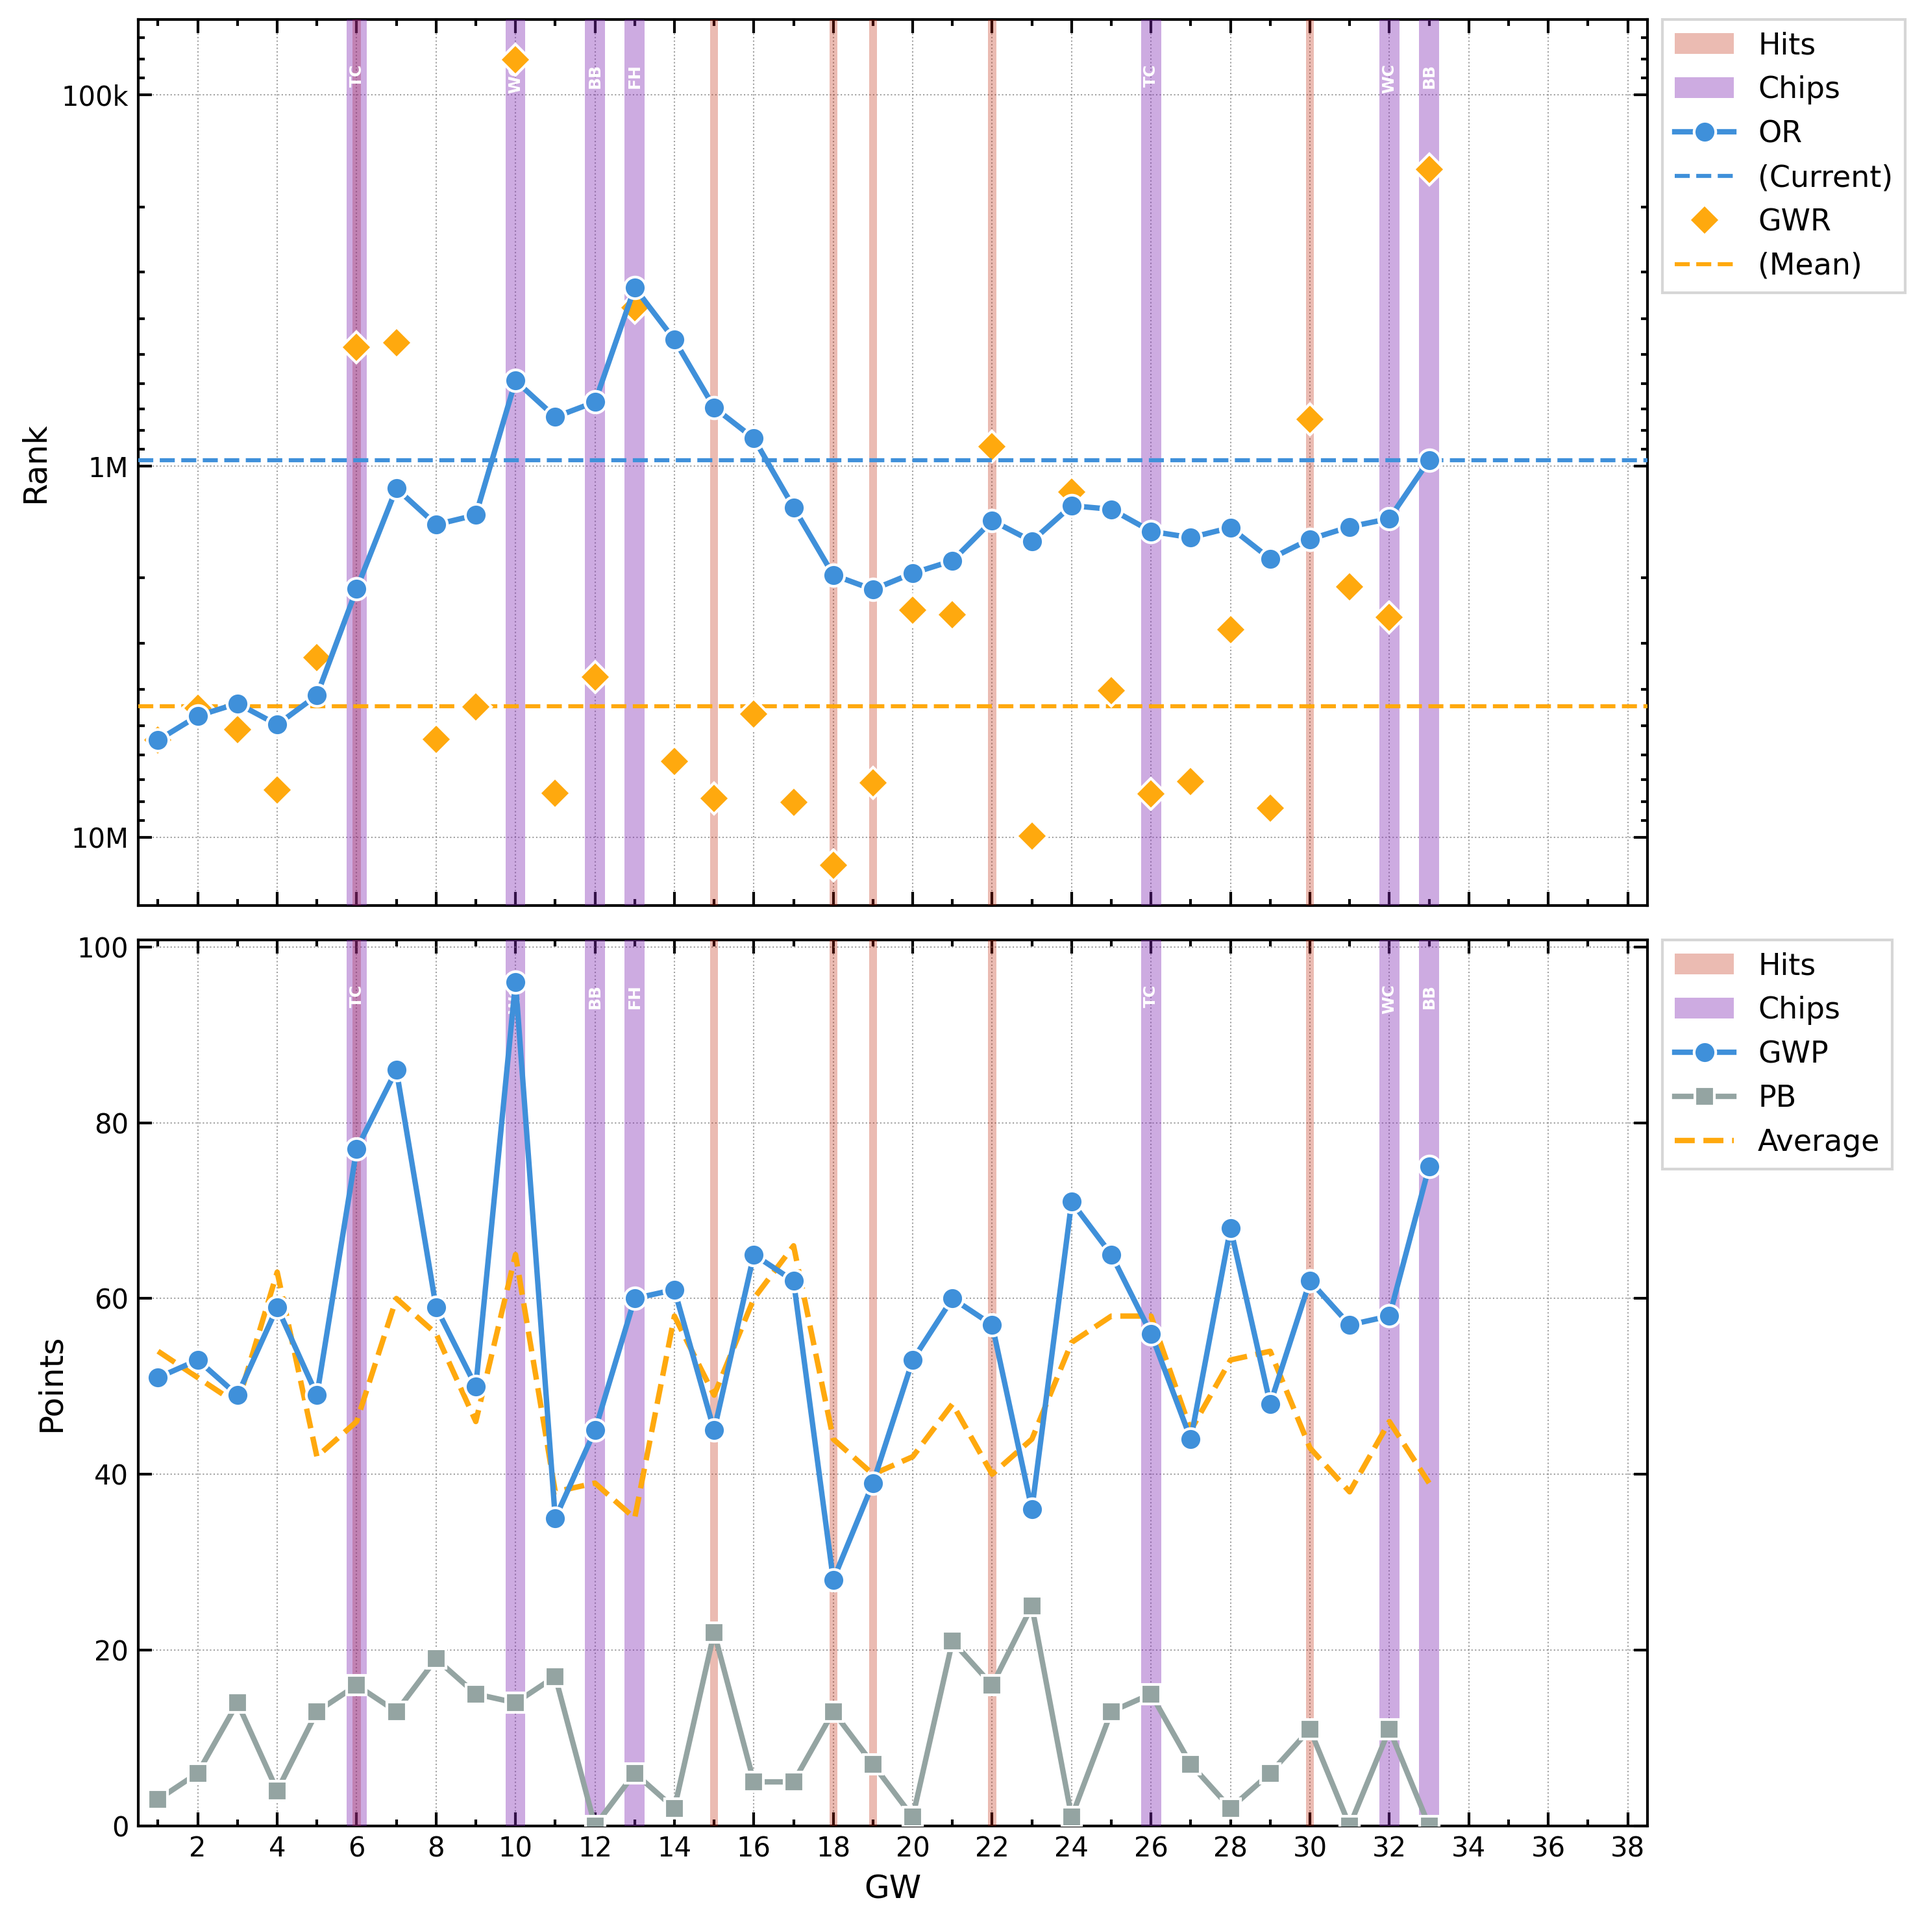
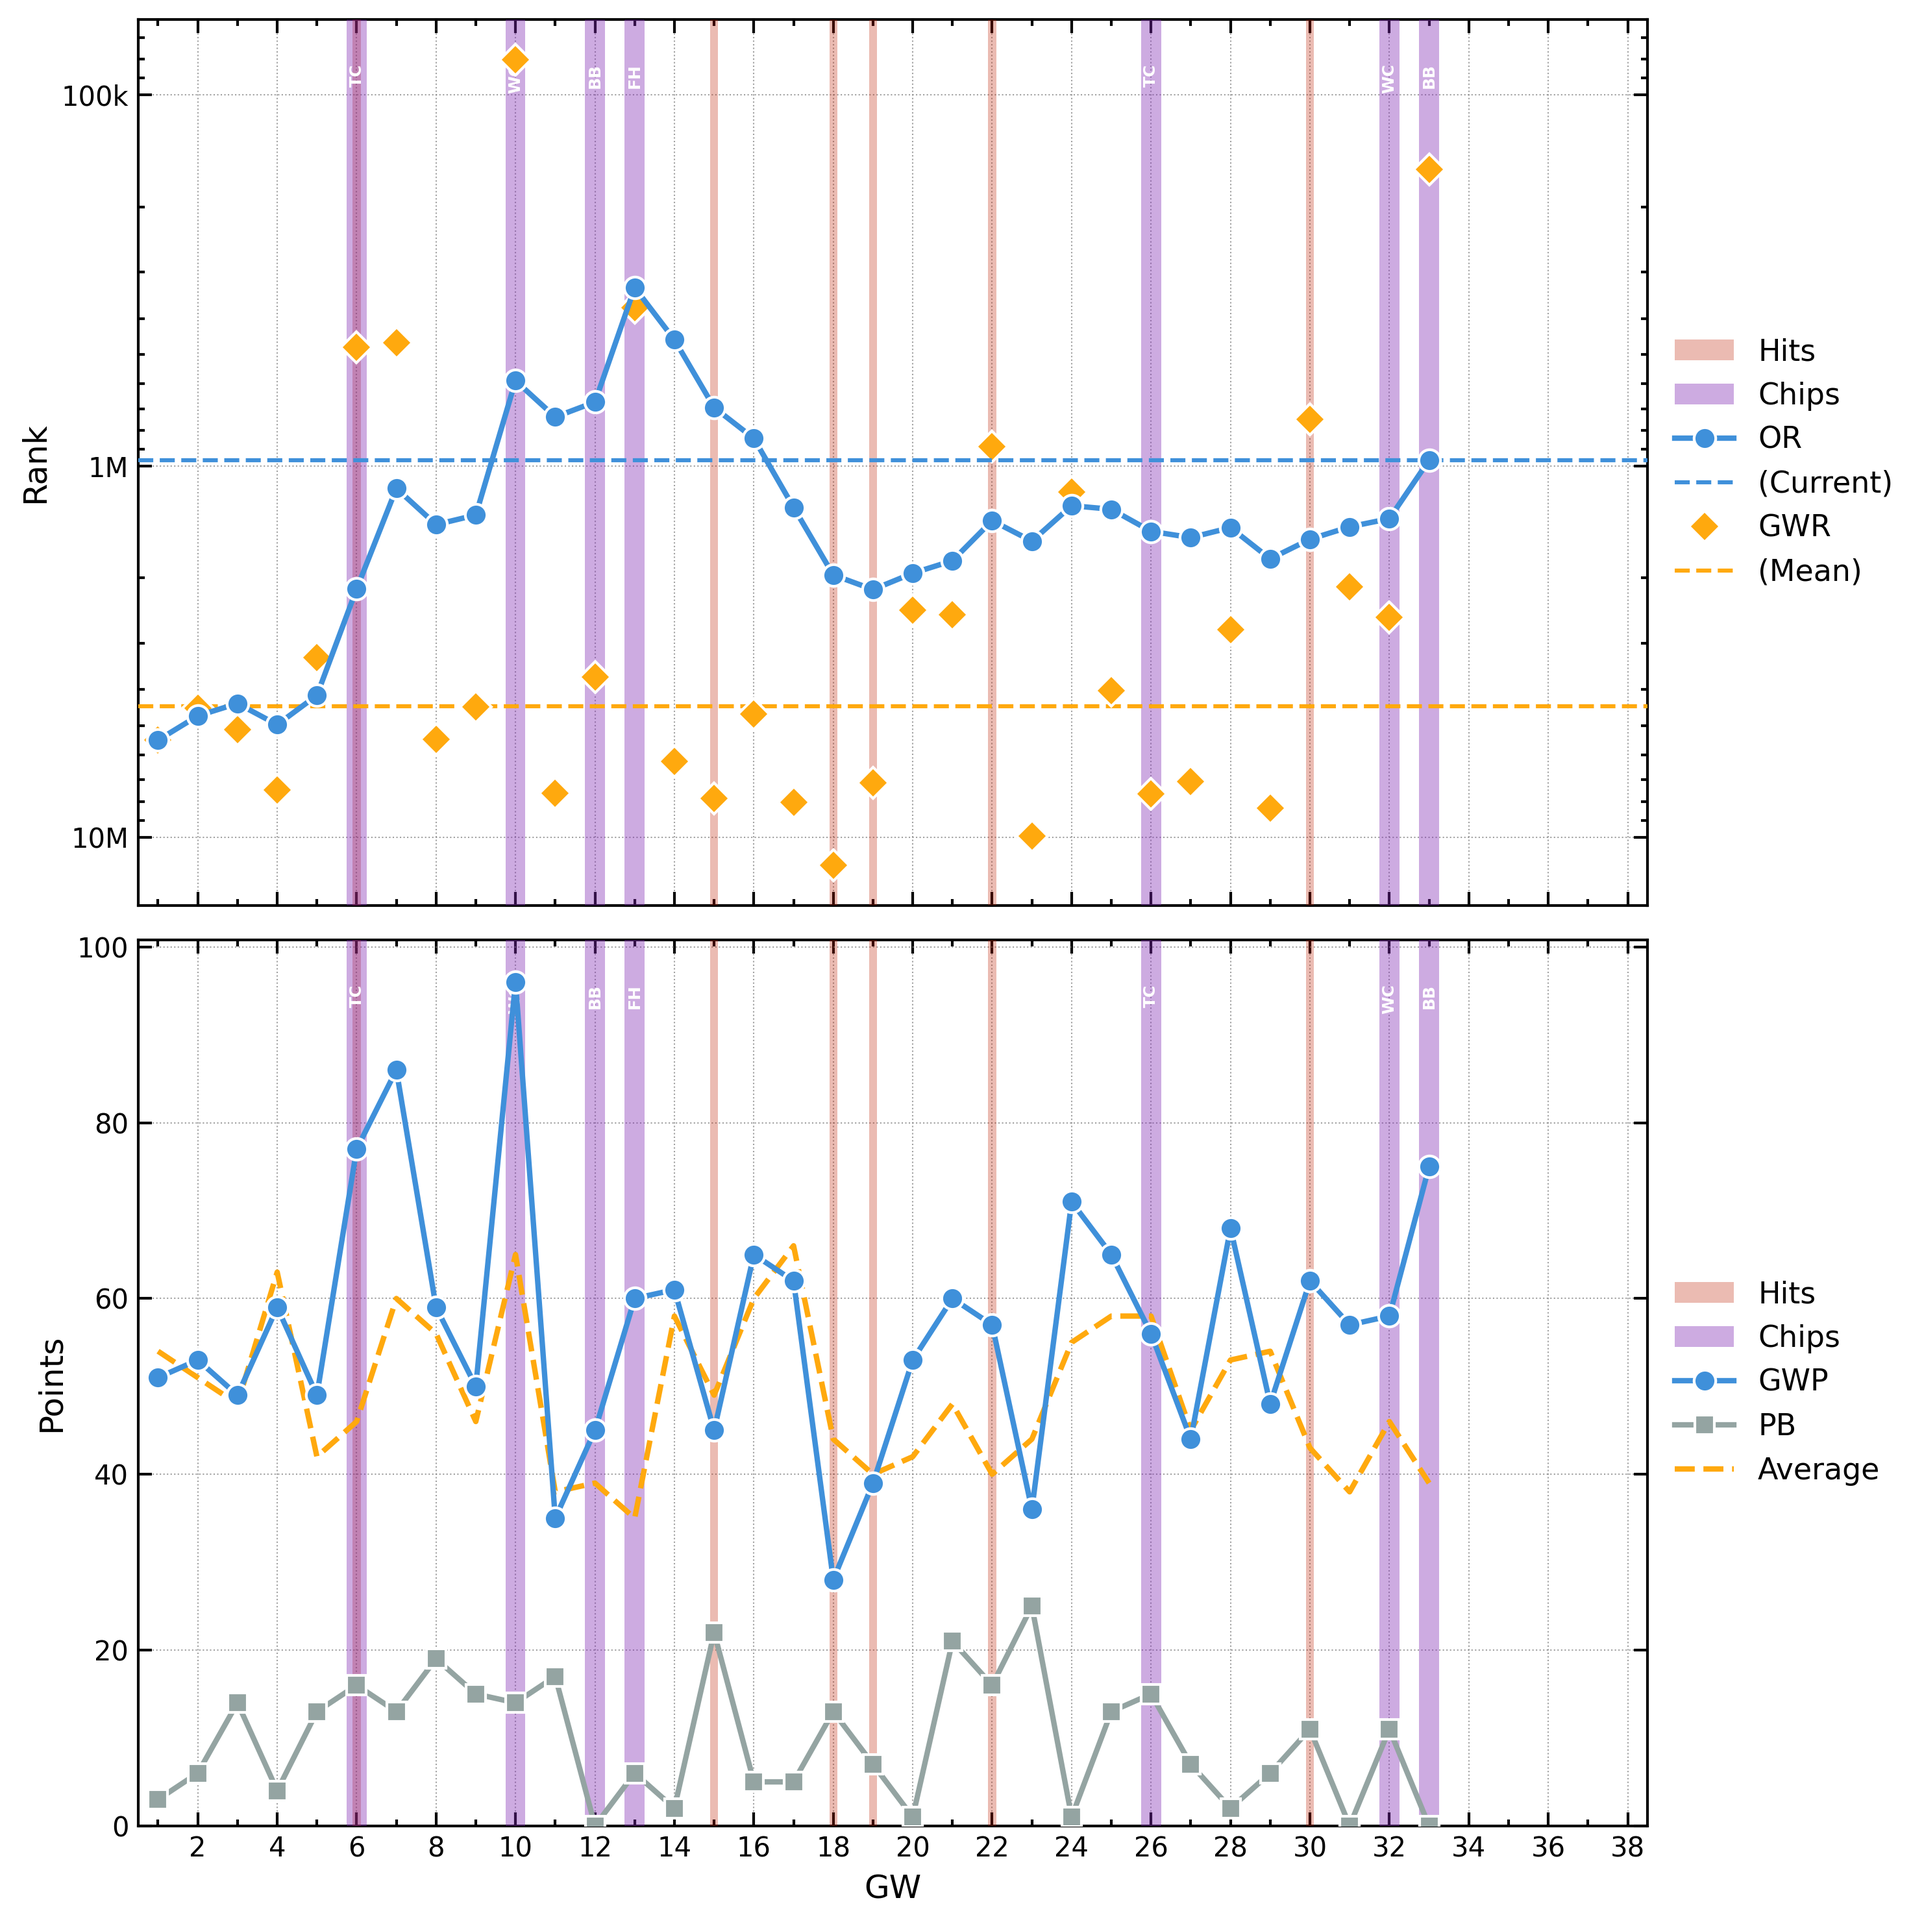
Center legends vertically, remove legend box
https://claude.ai/code/session_015YZ5HhwwHyWnPznJz9iTnu

diff --git a/visualize.py b/visualize.py
@@ -307,11 +307,11 @@ def plot_points_evolution(csv_path, ax=None):
     ax.legend(
         by_label.values(),
         by_label.keys(),
-        loc="upper left",
-        bbox_to_anchor=(1.01, 1),
+        loc="center left",
+        bbox_to_anchor=(1.01, 0.5),
         borderaxespad=0,
         fontsize=11,
-        frameon=True,
+        frameon=False,
     )
 
     if standalone:
@@ -451,11 +451,11 @@ def plot_rank_evolution(csv_path, ax=None):
     ax.legend(
         by_label.values(),
         by_label.keys(),
-        loc="upper left",
-        bbox_to_anchor=(1.01, 1),
+        loc="center left",
+        bbox_to_anchor=(1.01, 0.5),
         borderaxespad=0,
         fontsize=11,
-        frameon=True,
+        frameon=False,
     )
 
     if standalone:
